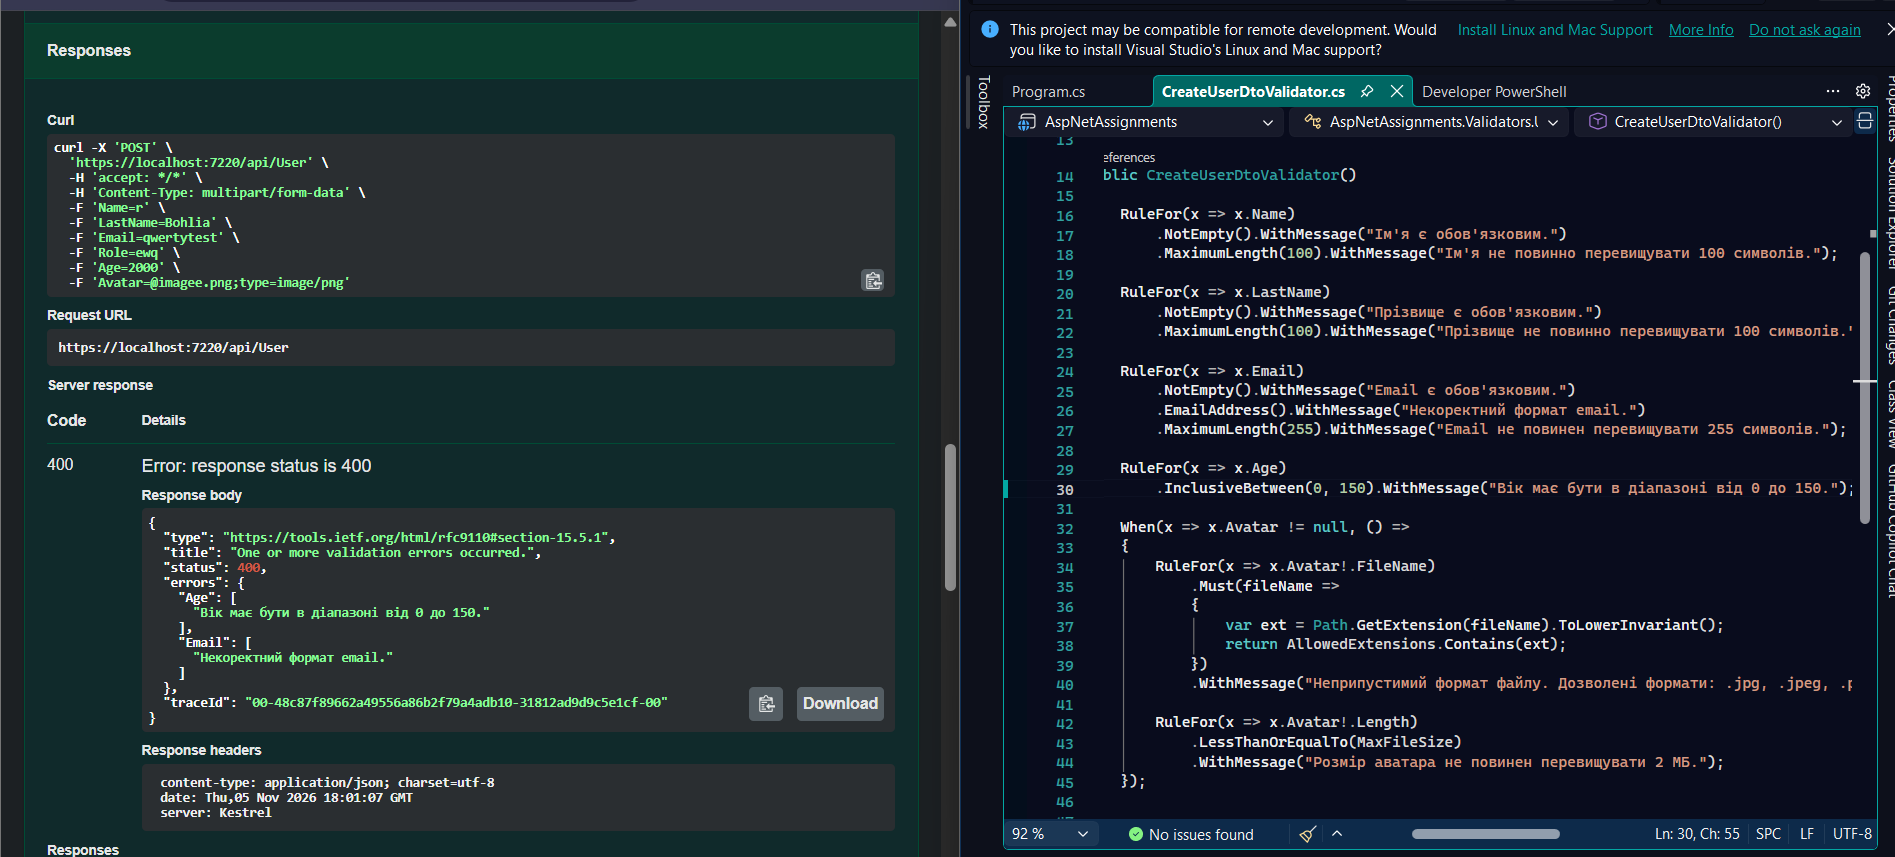
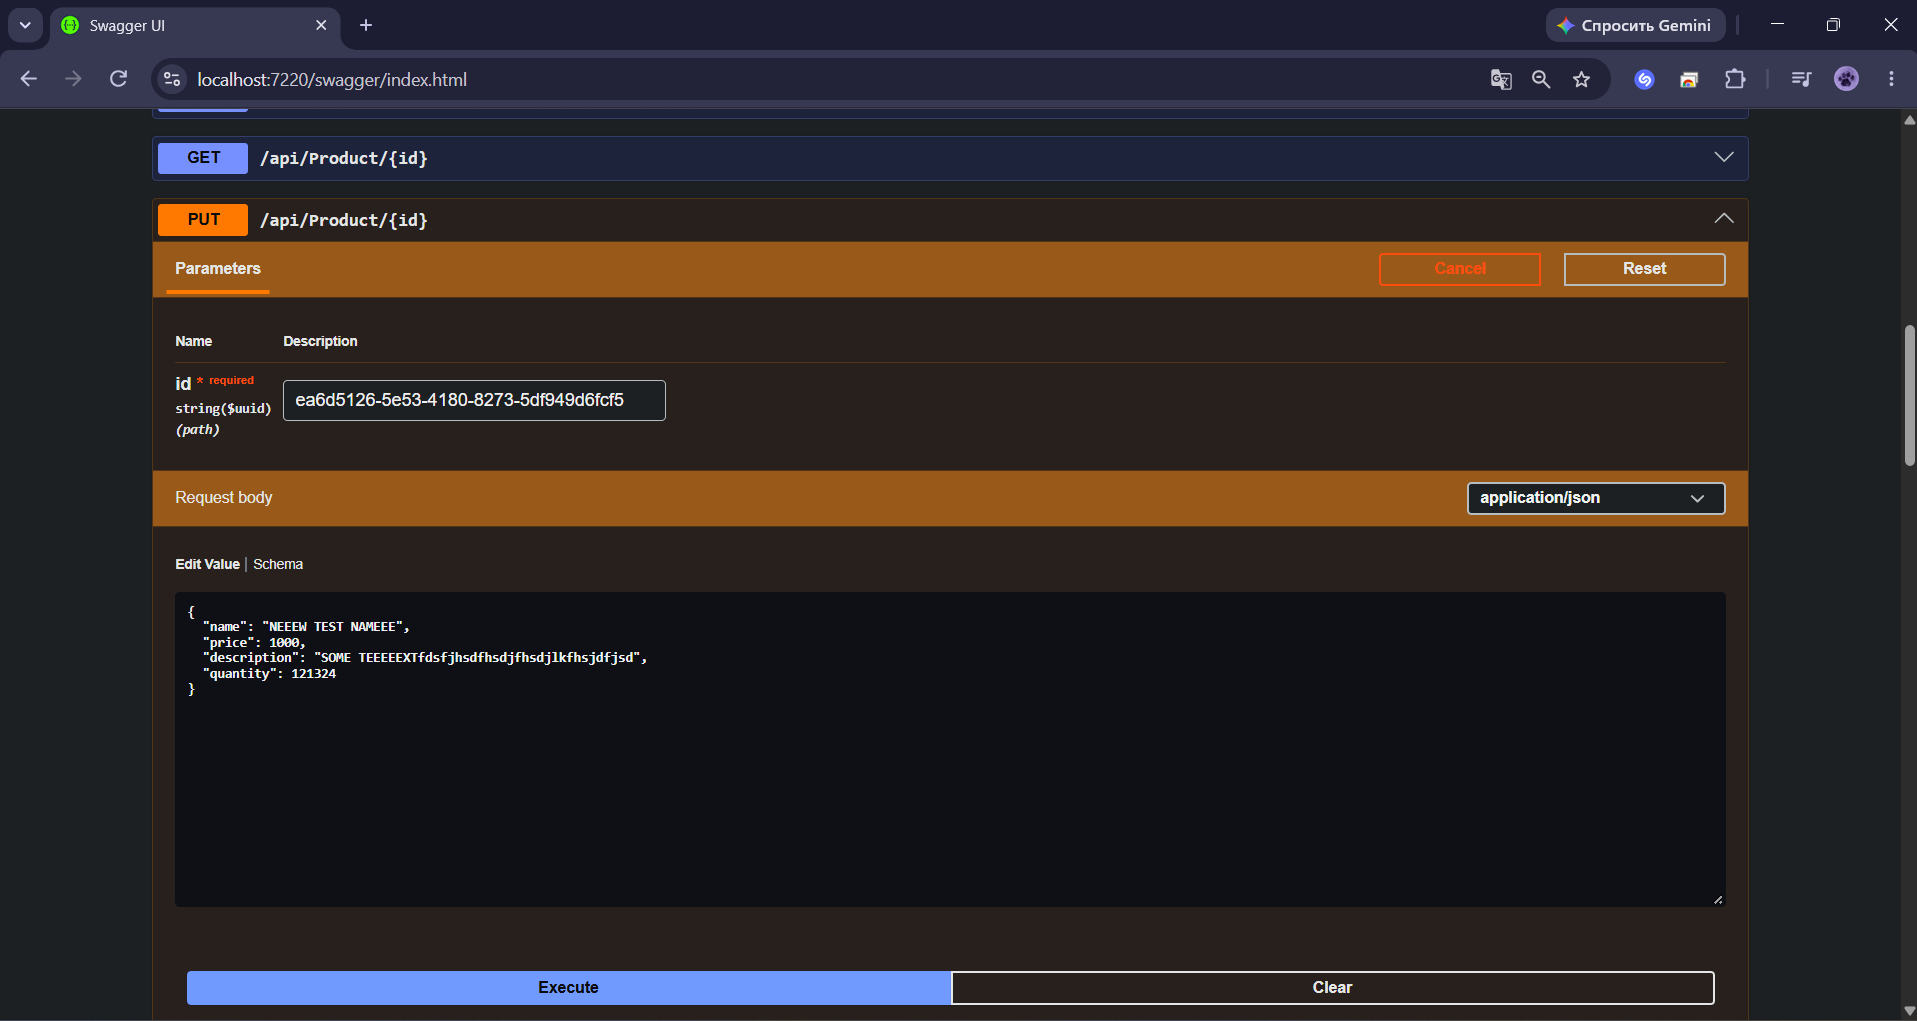
feat: Create a logger that saves data to a file and records the following:
timestamp
method
path
statusCode
durationMs
message

diff --git a/AspNetAssignments/Middleware/RequestLoggingMiddleware.cs b/AspNetAssignments/Middleware/RequestLoggingMiddleware.cs
@@ -1,17 +1,20 @@
 using System.Diagnostics;
+using System.Text.Json;
 using Microsoft.AspNetCore.Builder;
 using Microsoft.AspNetCore.Http;
 using Microsoft.Extensions.Logging;
+using AspNetAssignments.Services.Abstract;
 
 namespace AspNetAssignments.Middleware;
 
 /// <summary>
-/// Проміжне ПЗ для логування тривалості виконання HTTP-запитів за допомогою Stopwatch
+/// Проміжне ПЗ для логування тривалості виконання HTTP-запитів за допомогою Stopwatch та збереження у файл
 /// </summary>
 public class RequestLoggingMiddleware
 {
     private readonly RequestDelegate _next;
     private readonly ILogger<RequestLoggingMiddleware> _logger;
+    private static readonly SemaphoreSlim _fallbackLock = new(1, 1);
 
     public RequestLoggingMiddleware(RequestDelegate next, ILogger<RequestLoggingMiddleware> logger)
     {
@@ -20,9 +23,9 @@ public class RequestLoggingMiddleware
     }
 
     /// <summary>
-    /// Обробляє HTTP-запит та фіксує точний час його виконання
+    /// Обробляє HTTP-запит, фіксує точний час його виконання та зберігає дані у лог-файл
     /// </summary>
-    public async Task InvokeAsync(HttpContext context)
+    public async Task InvokeAsync(HttpContext context, IFileLoggerService? fileLogger = null)
     {
         var stopwatch = Stopwatch.StartNew();
 
@@ -31,12 +34,71 @@ public class RequestLoggingMiddleware
         stopwatch.Stop();
 
         var elapsedMilliseconds = stopwatch.ElapsedMilliseconds;
+        var message = $"Request {context.Request.Method} {context.Request.Path} completed with status {context.Response.StatusCode}";
 
         _logger.LogInformation("${Request method} {uri} => {statusCode} executed in {elapsedMilliseconds}ms",
             context.Request.Method,
             context.Request.Path,
             context.Response.StatusCode,
             elapsedMilliseconds);
+
+        if (fileLogger != null)
+        {
+            await fileLogger.LogRequestAsync(
+                context.Request.Method,
+                context.Request.Path.Value ?? string.Empty,
+                context.Response.StatusCode,
+                elapsedMilliseconds,
+                message);
+        }
+        else
+        {
+            await LogDirectlyToFileAsync(
+                context.Request.Method,
+                context.Request.Path.Value ?? string.Empty,
+                context.Response.StatusCode,
+                elapsedMilliseconds,
+                message);
+        }
+    }
+
+    private static async Task LogDirectlyToFileAsync(string method, string path, int statusCode, long durationMs, string message)
+    {
+        try
+        {
+            var logsDir = Path.Combine(Directory.GetCurrentDirectory(), "Logs");
+            if (!Directory.Exists(logsDir))
+            {
+                Directory.CreateDirectory(logsDir);
+            }
+            var filePath = Path.Combine(logsDir, "requests.log");
+
+            var logEntry = new
+            {
+                timestamp = DateTime.UtcNow.ToString("yyyy-MM-ddTHH:mm:ss.fffZ"),
+                method = method,
+                path = path,
+                statusCode = statusCode,
+                durationMs = durationMs,
+                message = message
+            };
+
+            var jsonLine = JsonSerializer.Serialize(logEntry);
+
+            await _fallbackLock.WaitAsync();
+            try
+            {
+                await File.AppendAllTextAsync(filePath, jsonLine + Environment.NewLine);
+            }
+            finally
+            {
+                _fallbackLock.Release();
+            }
+        }
+        catch
+        {
+            // Не блокуємо конвеєр обробки у випадку помилки файлового виводу
+        }
     }
 }
 

diff --git a/AspNetAssignments/Services/FileLoggerService.cs b/AspNetAssignments/Services/FileLoggerService.cs
@@ -1,0 +1,52 @@
+using System.Text.Json;
+using Microsoft.AspNetCore.Hosting;
+using AspNetAssignments.Services.Abstract;
+
+namespace AspNetAssignments.Services;
+
+/// <summary>
+/// Сервіс для збереження логів HTTP-запитів у файл
+/// </summary>
+public class FileLoggerService : IFileLoggerService
+{
+    private readonly string _logFilePath;
+    private static readonly SemaphoreSlim _lock = new(1, 1);
+
+    public FileLoggerService(IWebHostEnvironment env)
+    {
+        var logsDirectory = Path.Combine(env.ContentRootPath, "Logs");
+        if (!Directory.Exists(logsDirectory))
+        {
+            Directory.CreateDirectory(logsDirectory);
+        }
+        _logFilePath = Path.Combine(logsDirectory, "requestsLog.json");
+    }
+
+    /// <summary>
+    /// Записує структуру запиту у файл (timestamp, method, path, statusCode, durationMs, message)
+    /// </summary>
+    public async Task LogRequestAsync(string method, string path, int statusCode, long durationMs, string message)
+    {
+        var logEntry = new
+        {
+            timestamp = DateTime.UtcNow.ToString("dd-MM-yyyy:HH-mm-ss"),
+            method = method,
+            path = path,
+            statusCode = statusCode,
+            durationMs = durationMs,
+            message = message
+        };
+
+        var jsonLine = JsonSerializer.Serialize(logEntry);
+        //Трошки інший синтаксис для потокобезпечності  
+        await _lock.WaitAsync();
+        try
+        {
+            await File.AppendAllTextAsync(_logFilePath, jsonLine + Environment.NewLine);
+        }
+        finally
+        {
+            _lock.Release();
+        }
+    }
+}

diff --git a/AspNetAssignments/Services/Abstract/IFileLoggerService.cs b/AspNetAssignments/Services/Abstract/IFileLoggerService.cs
@@ -1,0 +1,12 @@
+namespace AspNetAssignments.Services.Abstract;
+
+/// <summary>
+/// Контракт сервісу для збереження логів запитів у файл
+/// </summary>
+public interface IFileLoggerService
+{
+    /// <summary>
+    /// Асинхронно записує інформацію про запит у лог-файл (timestamp, method, path, statusCode, durationMs, message)
+    /// </summary>
+    Task LogRequestAsync(string method, string path, int statusCode, long durationMs, string message);
+}

diff --git a/AspNetAssignments/Program.cs b/AspNetAssignments/Program.cs
@@ -51,6 +51,7 @@ public class Program
         builder.Services.AddScoped<IUserService, UserService>();
         builder.Services.AddScoped<IFileService, FileService>();
         builder.Services.AddScoped<IOrderService, OrderService>();
+        builder.Services.AddSingleton<IFileLoggerService, FileLoggerService>();
 
         // Налаштування Swagger документації API
         builder.Services.AddEndpointsApiExplorer();

diff --git a/README.md b/README.md
@@ -95,9 +95,10 @@
 
 ## 🚀 Остання влита робота:
 
-Остання актуальна робота, що була перевірена та влита в `main` (або не влита, та знаходиться в гілці hw-24-10-2026):
-## Було трохи складно із фото  юзера, цей момент зробив із за допомогою ші нажаль 
+Остання актуальна робота, що була перевірена та влита в `main` (або не влита, та знаходиться в гілці hw-25-10-2026):
+## Мабуть трохи інший синтаксис для потокобезпечності, ніж у попередньому завданні, але все ж таки працює
 ### Підтвердження виконання (Скріншоти та результати тестування) для практичної або домашньої роботи:
 
 ![Немає](Images/1.png)
 ![Немає](Images/2.png)
+![Немає](Images/3.png)
